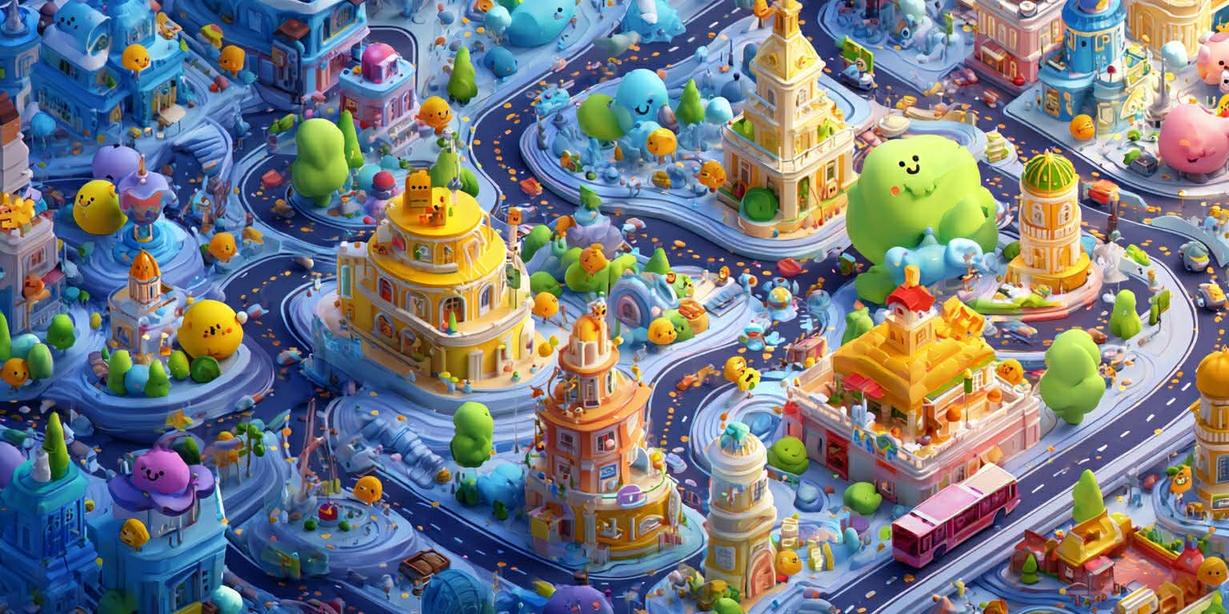
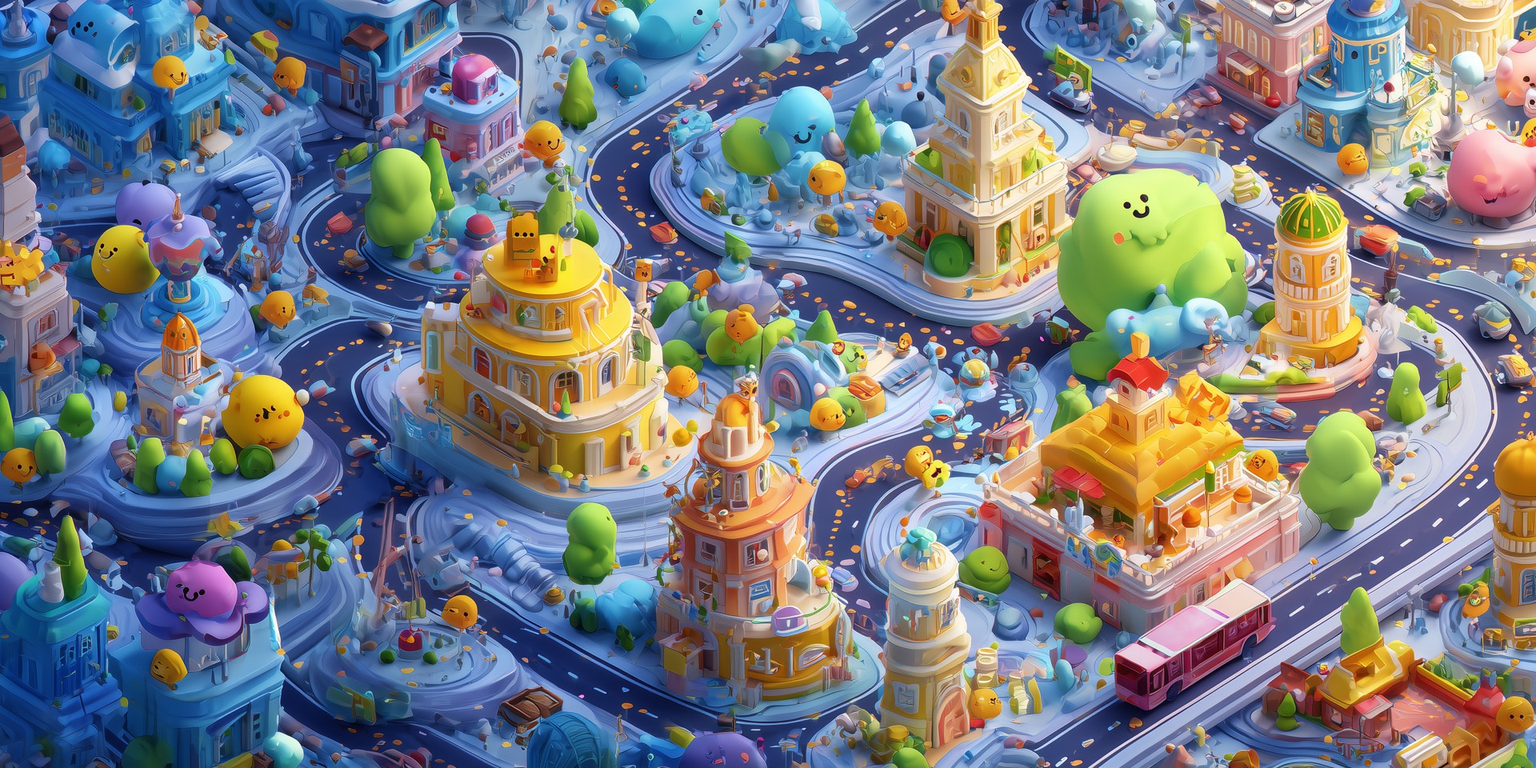
Halloween cards, a balanced grid, and a sharper cover
Four Halloween designs at 89 THB join the gallery and the commerce
listing, which the Thai e-commerce disclosure requires to match what the
app actually sells.

The four feature cards were laid out with auto-fit, so a wide enough
window fitted three and left the fourth hanging alone on its own row.
Four equal things should sit as 2x2; one column below 560px.

The cover is the upscaled 3072px original, re-encoded at 1920 for desktop
and 1000 for phones — 651 KB and 234 KB. Serving the desktop file to a
phone on mobile data buys detail nobody can see on that screen.

Fixed a 5px horizontal scroll at 320px while measuring. It was not the
store badges, which is where I looked first: the contact email button is
301px wide because the address itself is, and it now wraps.

diff --git a/index.html b/index.html
@@ -28,6 +28,14 @@
             background: linear-gradient(to bottom, rgba(2,12,24,0.3) 0%, rgba(2,12,24,0.6) 50%, rgba(2,12,24,0.95) 80%, #020C18 100%),
                         url('cover.jpg') center top / cover no-repeat;
         }
+        /* ภาพพื้นหลัง 1920px หนัก 651 KB ซึ่งบนเน็ตมือถือคือการรอเปล่าๆ
+           จอแคบมองไม่เห็นรายละเอียดขนาดนั้นอยู่แล้ว — ส่งไฟล์ 1000px (234 KB) แทน */
+        @media (max-width: 760px) {
+            .hero {
+                background: linear-gradient(to bottom, rgba(2,12,24,0.3) 0%, rgba(2,12,24,0.6) 50%, rgba(2,12,24,0.95) 80%, #020C18 100%),
+                            url('cover-mobile.jpg') center top / cover no-repeat;
+            }
+        }
         .logo { width: 90px; height: 90px; border-radius: 50%; overflow: hidden;
                 box-shadow: 0 0 40px rgba(255,179,0,0.15), 0 0 80px rgba(0,200,255,0.08);
                 margin-bottom: 30px; }
@@ -50,7 +58,11 @@
         .download { margin: 40px 0 60px; display: flex; gap: 16px; flex-wrap: wrap; justify-content: center; align-items: center; }
         .badge-link { display: inline-block; transition: transform 0.2s, opacity 0.2s; }
         .badge-link:hover { transform: translateY(-3px); opacity: 0.85; }
-        .badge-link img { height: 52px; width: auto; display: block; }
+        .badge-link { max-width: 100%; }
+        .badge-link img { height: 52px; width: auto; max-width: 100%; display: block; }
+        /* ปุ่มอีเมลติดต่อยาว 301px จากตัวอีเมลเอง ซึ่งล้นจอ 320px ไป 5px
+           ทำให้ทั้งหน้าเลื่อนแนวนอนได้ — ยอมให้ตัวอีเมลตัดบรรทัดแทน */
+        a[href^="mailto:"] { max-width: 100%; overflow-wrap: anywhere; }
 
         /* Flood banner */
         .flood-banner { display: inline-flex; align-items: center; gap: 10px; margin-top: 6px;
@@ -80,7 +92,11 @@
         .gv-intro { color: rgba(255,255,255,0.55); line-height: 1.9; font-size: 0.95em;
                     text-align: center; max-width: 600px; margin: 0 auto 60px; }
 
-        .gv-grid { display: grid; grid-template-columns: repeat(auto-fit, minmax(220px, 1fr)); gap: 18px; margin-bottom: 60px; }
+        /* 4 ช่อง → 2×2 เสมอ
+           เดิมใช้ auto-fit ซึ่งพอจอกว้างพอก็ยัดได้ 3 ช่อง เหลือช่องที่ 4
+           ห้อยอยู่บรรทัดล่างคนเดียว — 4 อย่างที่เท่ากันต้องวางให้เท่ากัน */
+        .gv-grid { display: grid; grid-template-columns: repeat(2, 1fr); gap: 18px; margin-bottom: 60px; }
+        @media (max-width: 560px) { .gv-grid { grid-template-columns: 1fr; } }
         .gv-card {
             background: linear-gradient(135deg, rgba(255,179,0,0.06), rgba(0,200,255,0.04));
             border: 1px solid rgba(255,179,0,0.15);
@@ -118,7 +134,10 @@
         .gv-tier-note { font-size: 0.75em; color: rgba(255,255,255,0.35); }
         .gv-tier-count { margin-left: auto; font-size: 0.72em; color: rgba(255,255,255,0.25);
                          font-variant-numeric: tabular-nums; }
-        .gv-skins { display: grid; grid-template-columns: repeat(auto-fill, minmax(116px, 1fr)); gap: 12px; }
+        .gv-skins { display: grid; gap: 12px;
+                     /* min() กันกรณีจอแคบกว่าคอลัมน์ขั้นต่ำ ซึ่งจะดัน
+                        ให้หน้าเลื่อนแนวนอนได้ไม่กี่พิกเซลแต่เห็นชัด */
+                     grid-template-columns: repeat(auto-fill, minmax(min(116px, 100%), 1fr)); }
         /* contain ไม่ใช่ cover — หน้านี้มีไว้โชว์ลาย การครอปจึงตัดของที่คนมาดูทิ้ง
            (gv01 สัดส่วนต่างจากใบอื่นเล็กน้อย จะเหลือขอบบางๆ แทนที่จะโดนตัด) */
         .gv-skins img { width: 100%; aspect-ratio: 2 / 3; object-fit: contain; display: block;
@@ -288,7 +307,7 @@
 
     <div class="gv-gallery">
         <h3><span data-th>ลายการ์ดทั้งหมด</span><span data-en>EVERY CARD DESIGN</span></h3>
-        <p class="gv-gallery-sub"><span data-th>17 ลาย · ใช้ได้ฟรี 10 ลาย</span><span data-en>17 designs · 10 of them free</span></p>
+        <p class="gv-gallery-sub"><span data-th>21 ลาย · ใช้ได้ฟรี 10 ลาย</span><span data-en>21 designs · 10 of them free</span></p>
 
         <div class="gv-tier">
             <div class="gv-tier-head">
@@ -321,6 +340,20 @@
                 <img src="cards/gv04vip1.jpg" alt="ลายการ์ด Gravity gv04vip1" loading="lazy">
                 <img src="cards/gv05vip1.jpg" alt="ลายการ์ด Gravity gv05vip1" loading="lazy">
                 <img src="cards/gv09vip1.jpg" alt="ลายการ์ด Gravity gv09vip1" loading="lazy">
+            </div>
+        </div>
+
+        <div class="gv-tier">
+            <div class="gv-tier-head">
+                <span class="gv-tier-name" style="color:#FF8A3D"><span data-th>Halloween</span><span data-en>Halloween</span></span>
+                <span class="gv-tier-note"><span data-th>89 บาท / ใบ · ชุดตามเทศกาล</span><span data-en>89 THB each · seasonal set</span></span>
+                <span class="gv-tier-count">4</span>
+            </div>
+            <div class="gv-skins">
+                <img src="cards/hlw01.jpg" alt="ลายการ์ด Gravity Halloween hlw01" loading="lazy">
+                <img src="cards/hlw02.jpg" alt="ลายการ์ด Gravity Halloween hlw02" loading="lazy">
+                <img src="cards/hlw03.jpg" alt="ลายการ์ด Gravity Halloween hlw03" loading="lazy">
+                <img src="cards/hlw04.jpg" alt="ลายการ์ด Gravity Halloween hlw04" loading="lazy">
             </div>
         </div>
 
@@ -474,6 +507,12 @@
         </div>
         <div class="product">
           <div class="product-imgs">
+            <img src="cards/hlw01.jpg" alt="การ์ด Halloween"><img src="cards/hlw02.jpg" alt="การ์ด Halloween"><img src="cards/hlw03.jpg" alt="การ์ด Halloween"><img src="cards/hlw04.jpg" alt="การ์ด Halloween">
+          </div>
+          <div class="product-info"><div class="product-name">การ์ด Halloween</div><div class="product-price">89 บาท / ใบ</div></div>
+        </div>
+        <div class="product">
+          <div class="product-imgs">
             <img src="cards/gv08vip2.jpg" alt="การ์ด Ultra"><img src="cards/gv16vip2.jpg" alt="การ์ด Ultra"><img src="cards/gv17vip2.jpg" alt="การ์ด Ultra">
           </div>
           <div class="product-info"><div class="product-name">การ์ด Ultra</div><div class="product-price">199 บาท / ใบ</div></div>
@@ -494,7 +533,7 @@
     </div>
     <div class="ci-item">
       <div class="ci-num">5</div>
-      <div class="ci-body"><h3>ราคาสินค้า</h3><ul><li>การ์ด Pro — 59 บาท / ใบ</li><li>การ์ด Ultra — 199 บาท / ใบ</li></ul></div>
+      <div class="ci-body"><h3>ราคาสินค้า</h3><ul><li>การ์ด Pro — 59 บาท / ใบ</li><li>การ์ด Halloween — 89 บาท / ใบ</li><li>การ์ด Ultra — 199 บาท / ใบ</li></ul></div>
     </div>
   </div>
 </section>
